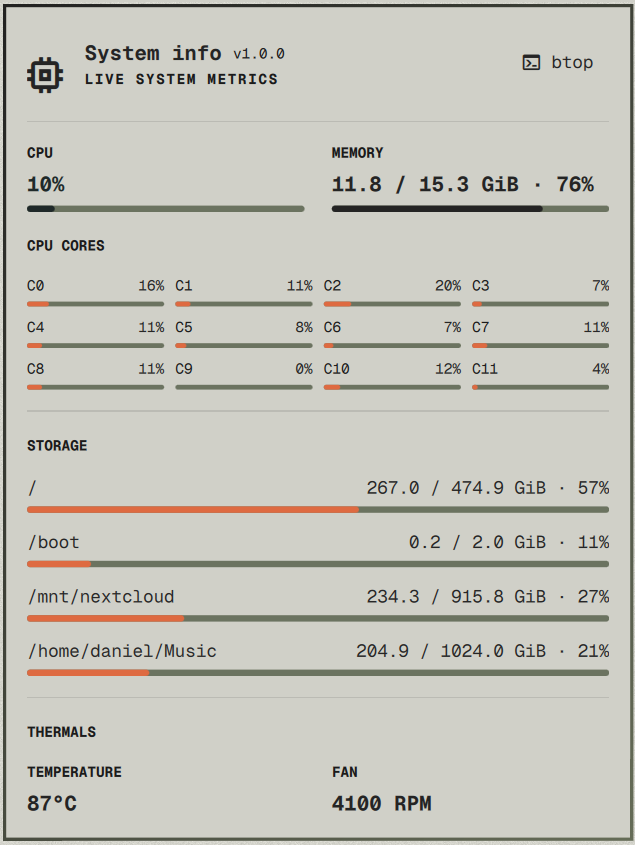
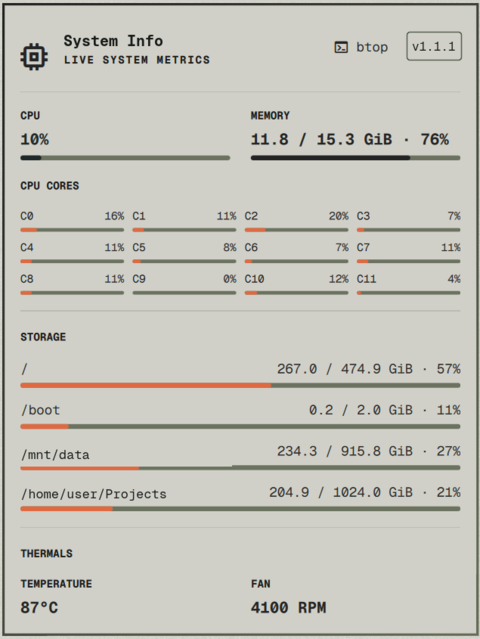
docs: refresh README and marketplace preview for v1.1.1

Changed region(s): [[0.0312, 0.6839, 0.4688, 0.8028], [0.6875, 0.0297, 0.9688, 0.1189], [0.125, 0.0297, 0.4688, 0.0892]]

diff --git a/README.md b/README.md
@@ -2,7 +2,7 @@
 
 A third-party Omarchy Shell bar widget that keeps the bar compact: CPU percentage stays visible, while the full system dashboard opens on click. Hover for a short summary. The dashboard includes a button to open or focus `btop`.
 
-![System Info dashboard](preview.png)
+![System Info dashboard, version 1.1.1](preview.png)
 
 Tested on Omarchy `4.0.4-1`.
 
@@ -14,7 +14,7 @@ Tested on Omarchy `4.0.4-1`.
 - Storage includes local and network/FUSE filesystems, excludes pseudo-filesystems, and deduplicates mounts backed by the same source (including Btrfs subvolumes). A volume whose usage cannot be queried remains listed as unavailable.
 - Metrics refresh every three seconds. Storage queries share a one-second budget; each individual query has a one-second timeout.
 - Missing sensor data is shown as unavailable rather than as zero. A readable zero-temperature reading remains valid when its channel has a label or is the primary CPU reading. A readable zero-RPM reading remains `0 RPM`.
-- Interface supports English and Spanish. Choose System, English, or Español in About; selection persists in Omarchy's `shell.json`, with English fallback for unsupported system locales.
+- About keeps the shared Metrics header, shows the plugin version beside Help & links, and supports English and Spanish. Choose System, English, or Español; selection persists in Omarchy's `shell.json`, with English fallback for unsupported system locales.
 
 ## Requirements
 
